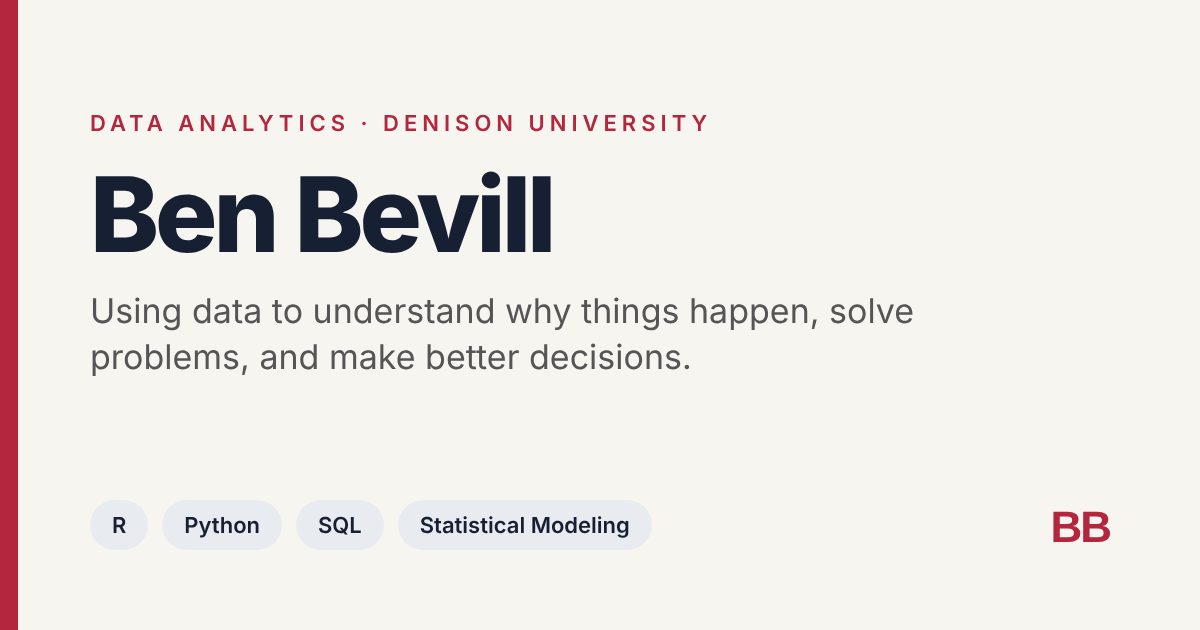
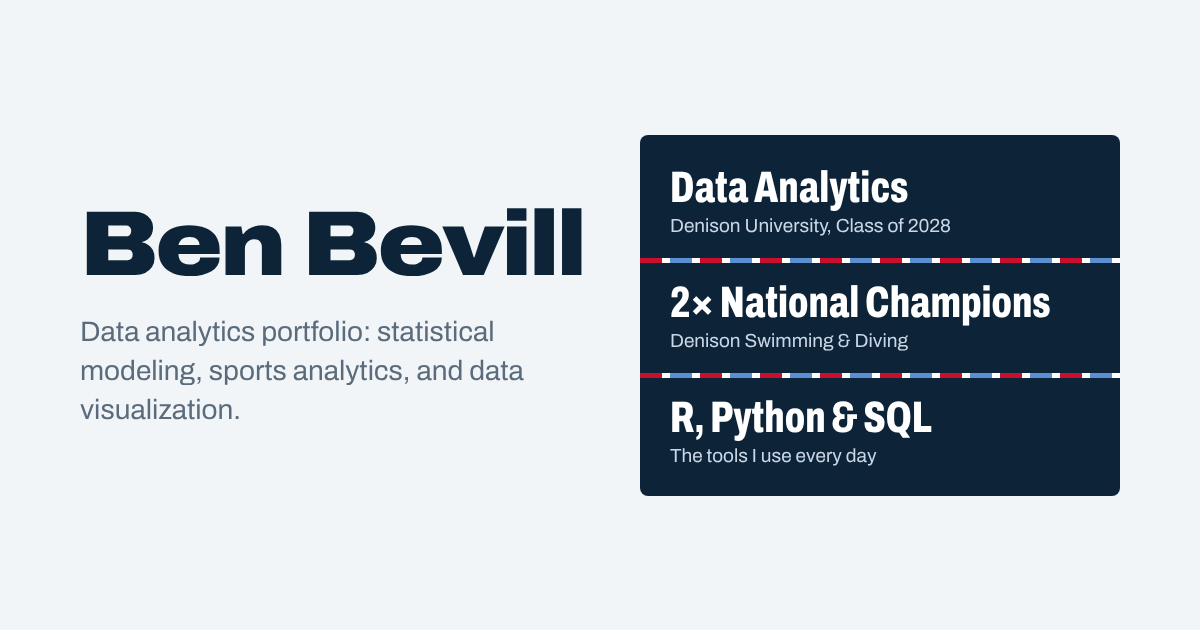
Pool-theme link preview image
Claude-Session: https://claude.ai/code/session_011VMEc94ajdXGoWAesXX15J

diff --git a/swimming.html b/swimming.html
@@ -17,7 +17,7 @@
     <meta property="og:title" content="NCAA DIII Swimming Analysis | Ben Bevill">
     <meta property="og:description" content="How well do seed rankings predict who scores at NCAAs? Logistic regression on 467 swimmer-event performances (AUC 0.887).">
     <meta property="og:url" content="https://ben-bevill05.github.io/swimming.html">
-    <meta property="og:image" content="https://ben-bevill05.github.io/images/og-preview.png">
+    <meta property="og:image" content="https://ben-bevill05.github.io/images/og-preview.png?v=2">
     <meta name="twitter:card" content="summary_large_image">
     <link rel="preconnect" href="https://fonts.googleapis.com">
     <link rel="preconnect" href="https://fonts.gstatic.com" crossorigin>

diff --git a/index.html b/index.html
@@ -17,7 +17,7 @@
     <meta property="og:title" content="Ben Bevill | Data Analytics">
     <meta property="og:description" content="Data Analytics student at Denison University. Projects in statistical modeling, sports analytics, and data visualization using R, Python, and SQL.">
     <meta property="og:url" content="https://ben-bevill05.github.io/">
-    <meta property="og:image" content="https://ben-bevill05.github.io/images/og-preview.png">
+    <meta property="og:image" content="https://ben-bevill05.github.io/images/og-preview.png?v=2">
     <meta name="twitter:card" content="summary_large_image">
     <link rel="preconnect" href="https://fonts.googleapis.com">
     <link rel="preconnect" href="https://fonts.gstatic.com" crossorigin>

diff --git a/terrorism.html b/terrorism.html
@@ -17,7 +17,7 @@
     <meta property="og:title" content="Terrorism Dataset Analysis | Ben Bevill">
     <meta property="og:description" content="Statistical analysis of 186 lone offender records using regression, ANOVA, t-tests, and chi-square testing.">
     <meta property="og:url" content="https://ben-bevill05.github.io/terrorism.html">
-    <meta property="og:image" content="https://ben-bevill05.github.io/images/og-preview.png">
+    <meta property="og:image" content="https://ben-bevill05.github.io/images/og-preview.png?v=2">
     <meta name="twitter:card" content="summary_large_image">
     <link rel="preconnect" href="https://fonts.googleapis.com">
     <link rel="preconnect" href="https://fonts.gstatic.com" crossorigin>

diff --git a/mccallie.html b/mccallie.html
@@ -17,7 +17,7 @@
     <meta property="og:title" content="Jump & Force Analysis | Ben Bevill">
     <meta property="og:description" content="Normative force benchmarks from 7,200+ countermovement jumps for McCallie School Strength & Conditioning.">
     <meta property="og:url" content="https://ben-bevill05.github.io/mccallie.html">
-    <meta property="og:image" content="https://ben-bevill05.github.io/images/og-preview.png">
+    <meta property="og:image" content="https://ben-bevill05.github.io/images/og-preview.png?v=2">
     <meta name="twitter:card" content="summary_large_image">
     <link rel="preconnect" href="https://fonts.googleapis.com">
     <link rel="preconnect" href="https://fonts.gstatic.com" crossorigin>
